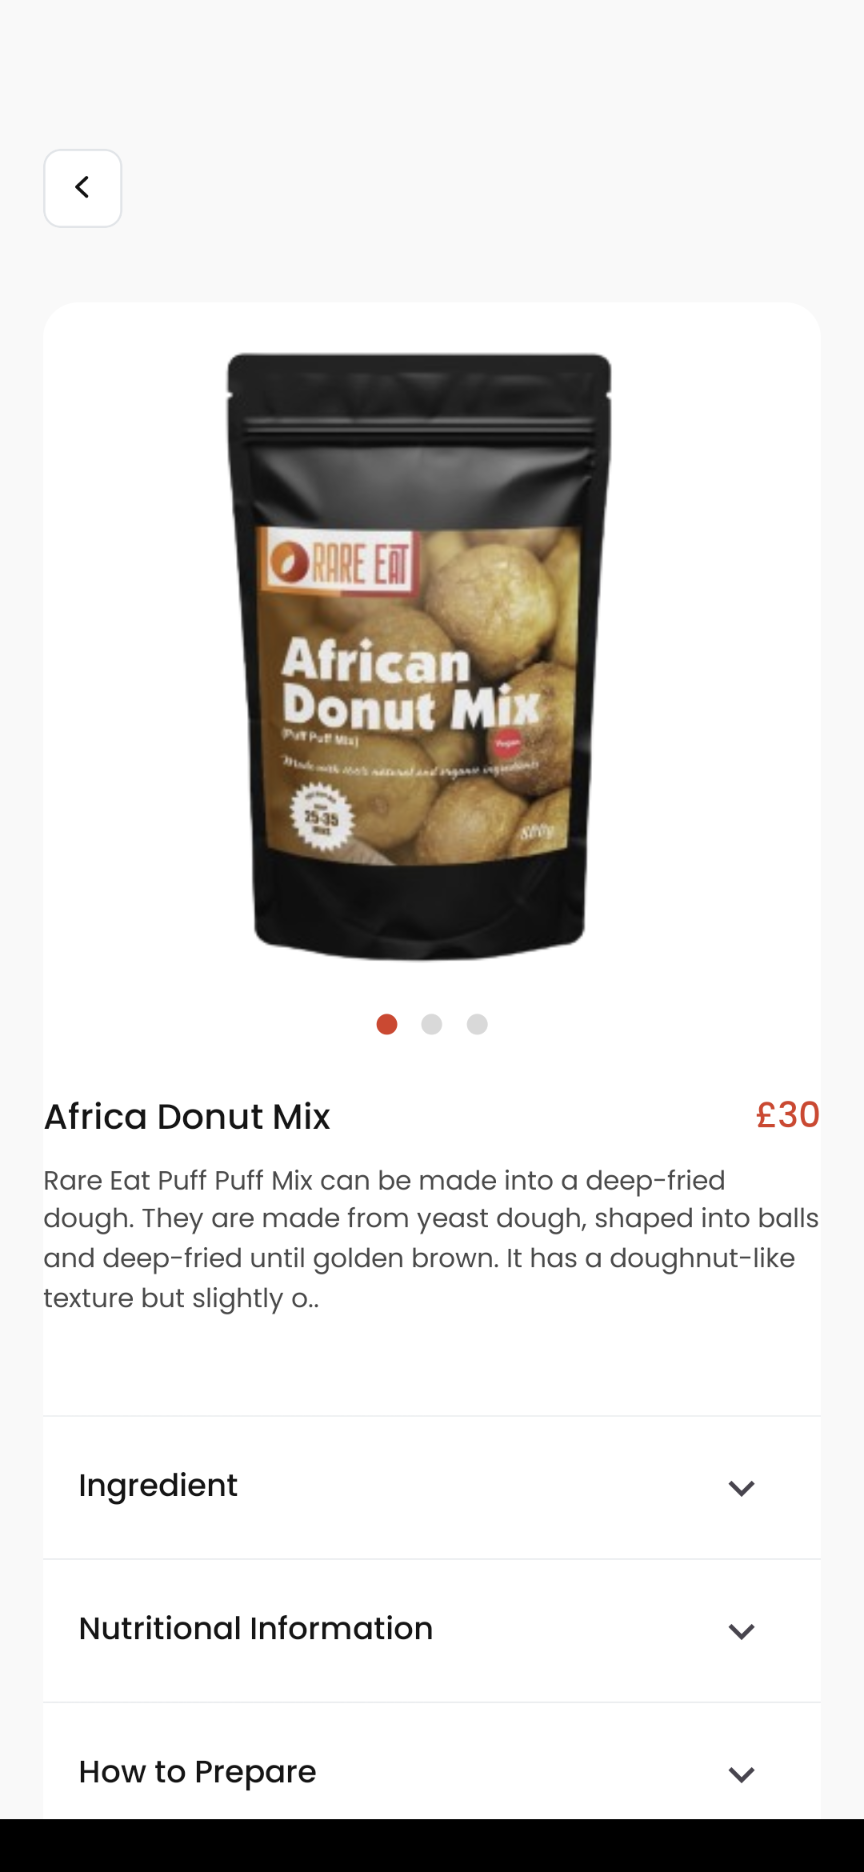
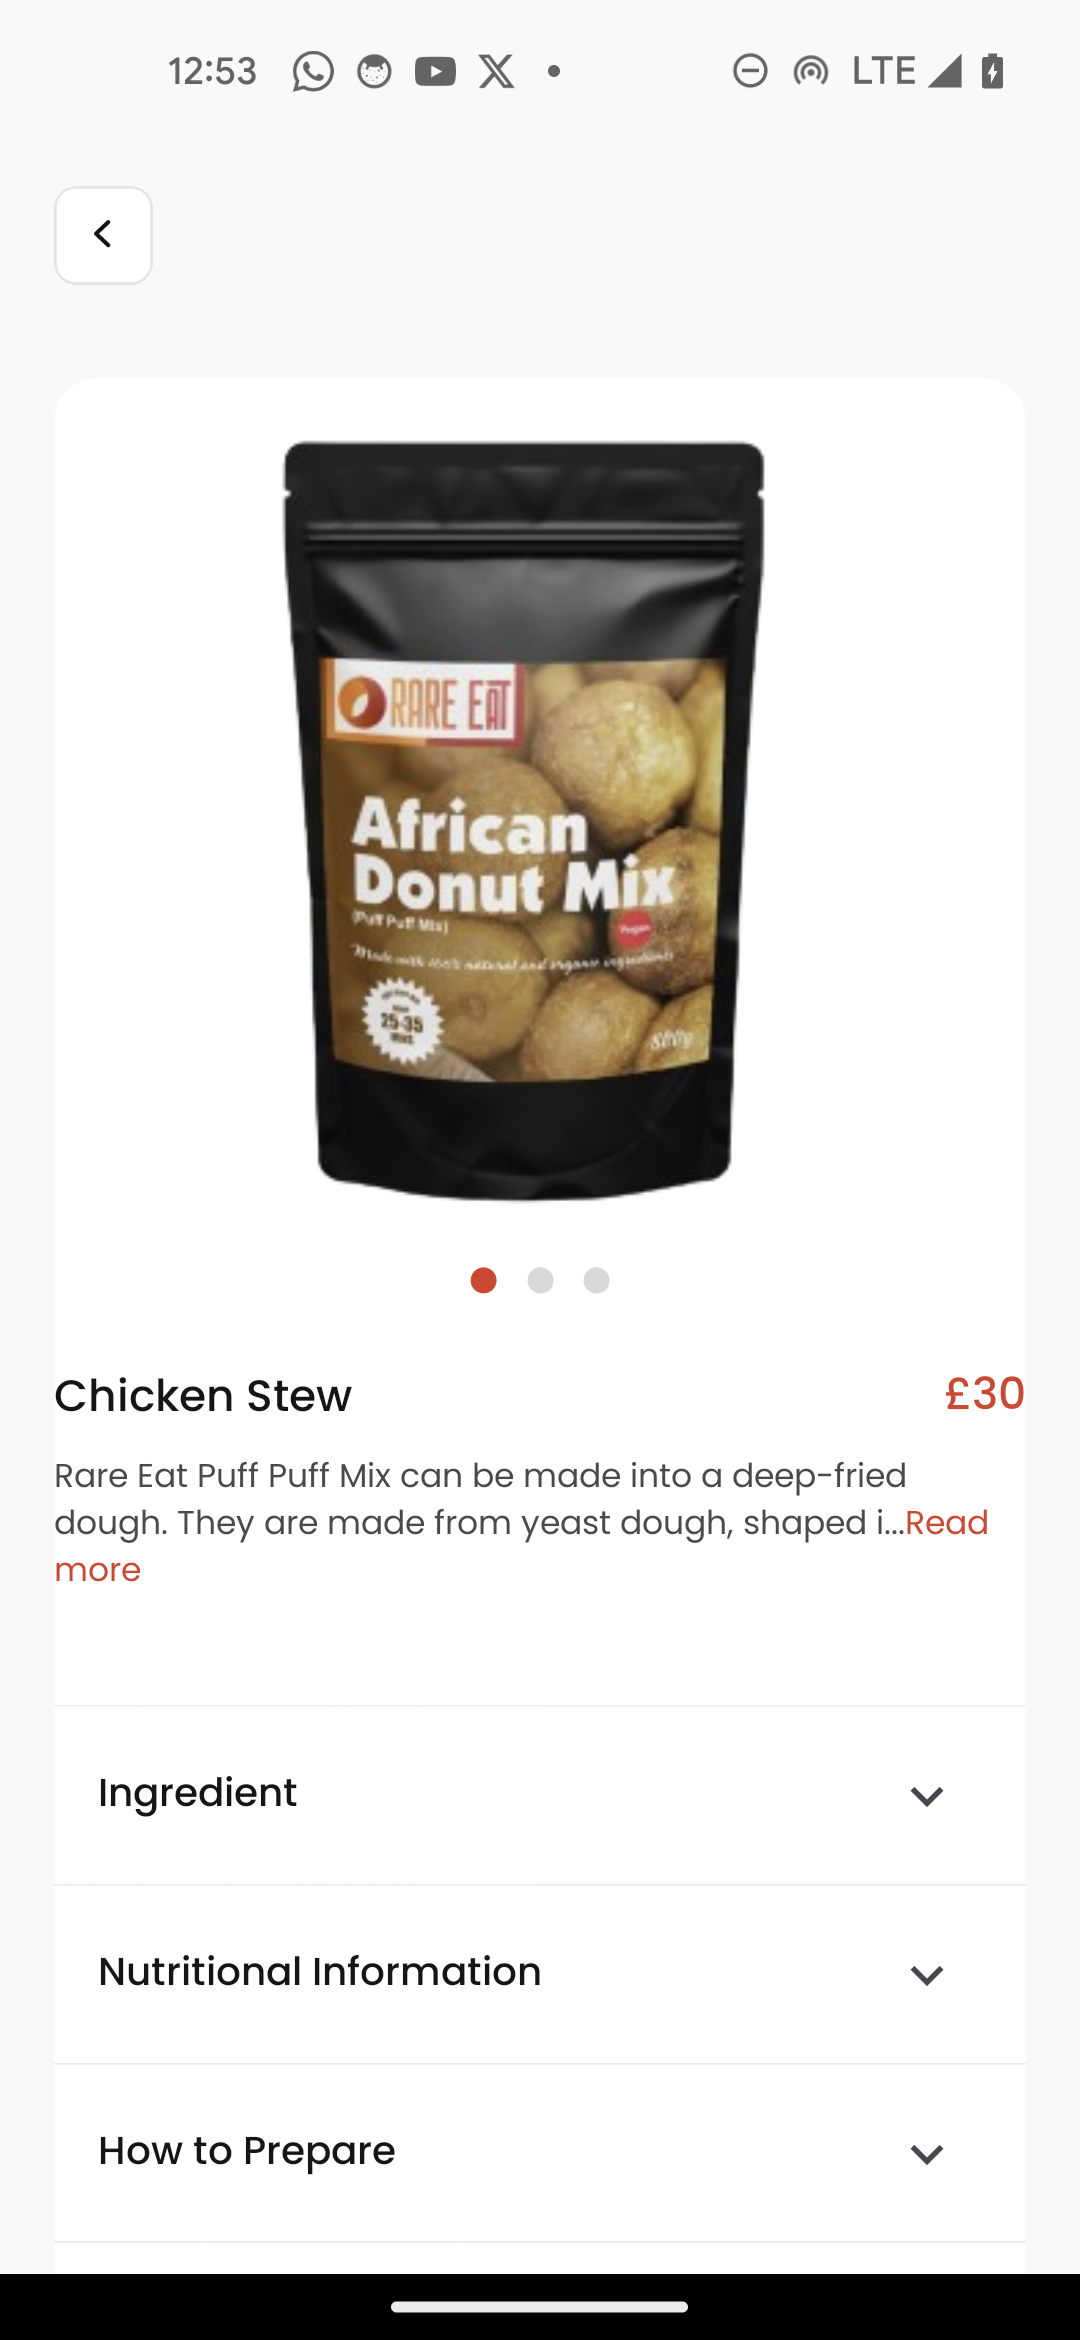
updated ReadME file

diff --git a/context/appContext.tsx b/context/appContext.tsx
@@ -12,7 +12,7 @@ const menuList: MenuType[] = [
     name: 'Africa Donut Mix',
     id: 'Mid01',
     details:
-      'Rare Eat Puff Puff Mix can be made into a deep-fried dough. They are made from yeast dough, shaped into balls and deep-fried until golden brown. It has a doughnut-like texture but slightly o..',
+      'Rare Eat Puff Puff Mix can be made into a deep-fried dough. They are made from yeast dough, shaped into balls and deep-fried until golden brown. It has a doughnut-like texture but slightly',
     amount: 30,
     images: [
       require('../assets/images/donuts.png'),
@@ -25,7 +25,7 @@ const menuList: MenuType[] = [
     id: 'Mid02',
     amount: 30,
     details:
-      'Rare Eat Puff Puff Mix can be made into a deep-fried dough. They are made from yeast dough, shaped into balls and deep-fried until golden brown. It has a doughnut-like texture but slightly o..',
+      'Rare Eat Puff Puff Mix can be made into a deep-fried dough. They are made from yeast dough, shaped into balls and deep-fried until golden brown. It has a doughnut-like texture but slightly',
     images: [
       require('../assets/images/donuts.png'),
       require('../assets/images/donuts.png'),
@@ -37,7 +37,7 @@ const menuList: MenuType[] = [
     id: 'Mid03',
     amount: 30,
     details:
-      'Rare Eat Puff Puff Mix can be made into a deep-fried dough. They are made from yeast dough, shaped into balls and deep-fried until golden brown. It has a doughnut-like texture but slightly o..',
+      'Rare Eat Puff Puff Mix can be made into a deep-fried dough. They are made from yeast dough, shaped into balls and deep-fried until golden brown. It has a doughnut-like texture but slightly',
     images: [
       require('../assets/images/donuts.png'),
       require('../assets/images/donuts.png'),
@@ -49,7 +49,7 @@ const menuList: MenuType[] = [
     id: 'Mid04',
     amount: 30,
     details:
-      'Rare Eat Puff Puff Mix can be made into a deep-fried dough. They are made from yeast dough, shaped into balls and deep-fried until golden brown. It has a doughnut-like texture but slightly o..',
+      'Rare Eat Puff Puff Mix can be made into a deep-fried dough. They are made from yeast dough, shaped into balls and deep-fried until golden brown. It has a doughnut-like texture but slightly',
     images: [
       require('../assets/images/donuts.png'),
       require('../assets/images/donuts.png'),
@@ -62,7 +62,7 @@ const menuList: MenuType[] = [
     variant: '(Beans Cake)',
     amount: 30,
     details:
-      'Rare Eat Puff Puff Mix can be made into a deep-fried dough. They are made from yeast dough, shaped into balls and deep-fried until golden brown. It has a doughnut-like texture but slightly o..',
+      'Rare Eat Puff Puff Mix can be made into a deep-fried dough. They are made from yeast dough, shaped into balls and deep-fried until golden brown. It has a doughnut-like texture but slightly',
     images: [
       require('../assets/images/donuts.png'),
       require('../assets/images/donuts.png'),
@@ -74,7 +74,7 @@ const menuList: MenuType[] = [
     name: 'Efo Riro (Yam Mix)',
     variant: '(Yam Porridge)',
     details:
-      'Rare Eat Puff Puff Mix can be made into a deep-fried dough. They are made from yeast dough, shaped into balls and deep-fried until golden brown. It has a doughnut-like texture but slightly o..',
+      'Rare Eat Puff Puff Mix can be made into a deep-fried dough. They are made from yeast dough, shaped into balls and deep-fried until golden brown. It has a doughnut-like texture but slightly',
     id: 'Mid06',
     amount: 30,
     images: [
@@ -88,7 +88,7 @@ const menuList: MenuType[] = [
     id: 'Mid07',
     variant: '(Yam Porridge)',
     details:
-      'Rare Eat Puff Puff Mix can be made into a deep-fried dough. They are made from yeast dough, shaped into balls and deep-fried until golden brown. It has a doughnut-like texture but slightly o..',
+      'Rare Eat Puff Puff Mix can be made into a deep-fried dough. They are made from yeast dough, shaped into balls and deep-fried until golden brown. It has a doughnut-like texture but slightly',
     amount: 30,
     images: [
       require('../assets/images/donuts.png'),
@@ -102,7 +102,7 @@ const menuList: MenuType[] = [
     amount: 30,
     variant: '(Beans Cake)',
     details:
-      'Rare Eat Puff Puff Mix can be made into a deep-fried dough. They are made from yeast dough, shaped into balls and deep-fried until golden brown. It has a doughnut-like texture but slightly o..',
+      'Rare Eat Puff Puff Mix can be made into a deep-fried dough. They are made from yeast dough, shaped into balls and deep-fried until golden brown. It has a doughnut-like texture but slightly',
     images: [
       require('../assets/images/donuts.png'),
       require('../assets/images/donuts.png'),
@@ -115,7 +115,7 @@ const menuList: MenuType[] = [
     amount: 30,
     variant: '(Beans cake)',
     details:
-      'Rare Eat Puff Puff Mix can be made into a deep-fried dough. They are made from yeast dough, shaped into balls and deep-fried until golden brown. It has a doughnut-like texture but slightly o..',
+      'Rare Eat Puff Puff Mix can be made into a deep-fried dough. They are made from yeast dough, shaped into balls and deep-fried until golden brown. It has a doughnut-like texture but slightly',
     images: [
       require('../assets/images/donuts.png'),
       require('../assets/images/donuts.png'),
@@ -129,7 +129,7 @@ const cartList: MenuType[] = [
     name: 'Africa Donut Mix',
     id: 'Mid01',
     details:
-      'Rare Eat Puff Puff Mix can be made into a deep-fried dough. They are made from yeast dough, shaped into balls and deep-fried until golden brown. It has a doughnut-like texture but slightly o..',
+      'Rare Eat Puff Puff Mix can be made into a deep-fried dough. They are made from yeast dough, shaped into balls and deep-fried until golden brown. It has a doughnut-like texture but slightly',
     amount: 30,
     variant: '(Yam Porridge)',
     images: [
@@ -142,7 +142,7 @@ const cartList: MenuType[] = [
     name: 'Africa Donut Mix',
     id: 'Mid02',
     details:
-      'Rare Eat Puff Puff Mix can be made into a deep-fried dough. They are made from yeast dough, shaped into balls and deep-fried until golden brown. It has a doughnut-like texture but slightly o..',
+      'Rare Eat Puff Puff Mix can be made into a deep-fried dough. They are made from yeast dough, shaped into balls and deep-fried until golden brown. It has a doughnut-like texture but slightly',
     amount: 30,
     variant: '(Yam Porridge)',
     images: [
@@ -156,7 +156,7 @@ const cartList: MenuType[] = [
     variant: '(Yam Porridge)',
     id: 'Mid03',
     details:
-      'Rare Eat Puff Puff Mix can be made into a deep-fried dough. They are made from yeast dough, shaped into balls and deep-fried until golden brown. It has a doughnut-like texture but slightly o..',
+      'Rare Eat Puff Puff Mix can be made into a deep-fried dough. They are made from yeast dough, shaped into balls and deep-fried until golden brown. It has a doughnut-like texture but slightly',
     amount: 30,
     images: [
       require('../assets/images/donuts.png'),

diff --git a/screens/productDetailScreen.tsx b/screens/productDetailScreen.tsx
@@ -69,6 +69,50 @@ const ProductDetailsCard = ({item}: {item: MenuType}) => {
     );
   };
 
+  const RenderTruncatedText = ({text}: {text: string}) => {
+    const [isExpanded, setIsExpanded] = useState(false);
+
+    const truncatedText = isExpanded ? text : `${text.substring(0, 100)}...`;
+
+    return (
+      <View style={styles.truncatedTextContainer}>
+        <Text
+          style={[
+            styles.text,
+            {
+              fontWeight: '400',
+              fontFamily: 'Poppins-Regular',
+              fontSize: 12,
+              color: '#4A4A4A',
+              lineHeight: 18,
+            },
+          ]}>
+          {truncatedText}
+          {!isExpanded && (
+            // <TouchableOpacity
+            //   activeOpacity={1}
+            //   onPress={() => setIsExpanded(true)}>
+            <Text
+              onPress={() => setIsExpanded(true)}
+              style={[
+                styles.text,
+                {
+                  color: '#DB3C25',
+                  fontWeight: '500',
+                  fontFamily: 'Poppins-Regular',
+                  fontSize: 12,
+                  lineHeight: 18,
+                  paddingLeft: 4,
+                },
+              ]}>
+              Read more
+            </Text>
+          )}
+        </Text>
+      </View>
+    );
+  };
+
   return (
     <View style={styles.contentContainer}>
       <Carousel
@@ -127,23 +171,8 @@ const ProductDetailsCard = ({item}: {item: MenuType}) => {
               &#163;{item.amount}
             </Text>
           </View>
-          <View style={{marginBottom: 4}}>
-            <Text
-              numberOfLines={4}
-              ellipsizeMode="tail"
-              style={[
-                styles.text,
-                {
-                  fontWeight: '400',
-                  fontFamily: 'Poppins-Regular',
-                  fontSize: 12,
-                  color: '#4A4A4A',
-                  lineHeight: 18,
-                },
-              ]}>
-              {item.details}
-            </Text>
-          </View>
+
+          <RenderTruncatedText text={item.details} />
         </View>
 
         <View style={styles.accordionContainer}>
@@ -330,12 +359,14 @@ const styles = StyleSheet.create({
   container: {flex: 1, backgroundColor: '#F9F9F9'},
 
   scrollContainer: {width: '100%'},
+
   image: {
     alignSelf: 'center',
     marginBottom: 8,
     width: 327,
     height: 304,
   },
+
   headerContainer: {
     width: '100%',
     height: 72,
@@ -377,17 +408,26 @@ const styles = StyleSheet.create({
     backgroundColor: '#fff',
   },
 
+  //@carousel dots styles
   dots: {
     flexDirection: 'row',
     justifyContent: 'center',
   },
+
   dot: {
     margin: 5,
     color: '#D9D9D9',
   },
+
   dotActive: {
     margin: 5,
     color: '#DB3C25',
+  },
+
+  truncatedTextContainer: {
+    flexDirection: 'row',
+    alignItems: 'center',
+    flexWrap: 'wrap',
   },
 
   menuItemHeader: {flex: 1, flexDirection: 'row', justifyContent: 'flex-end'},
